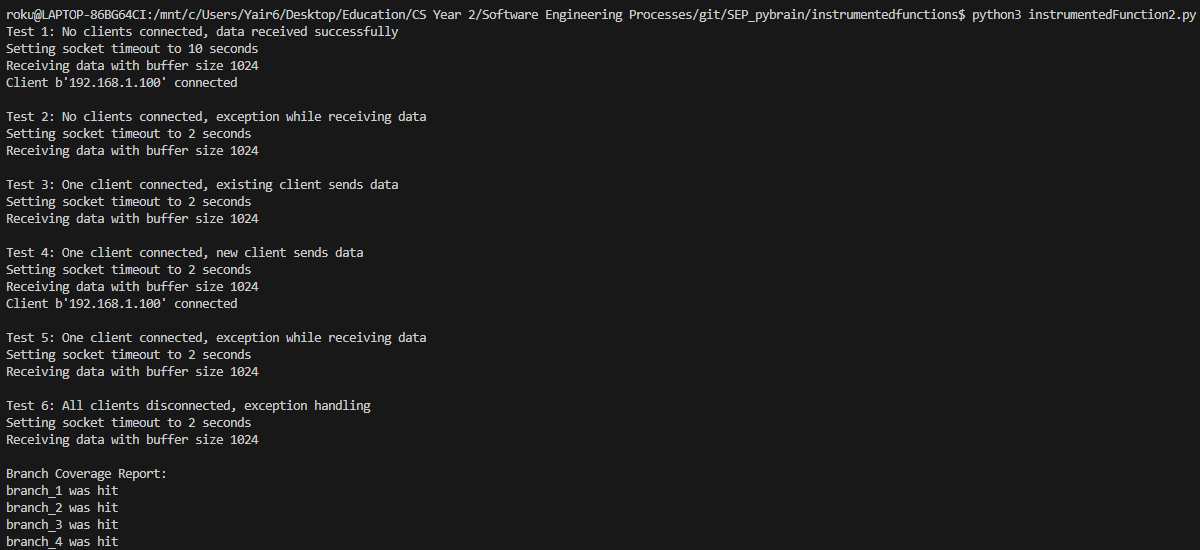
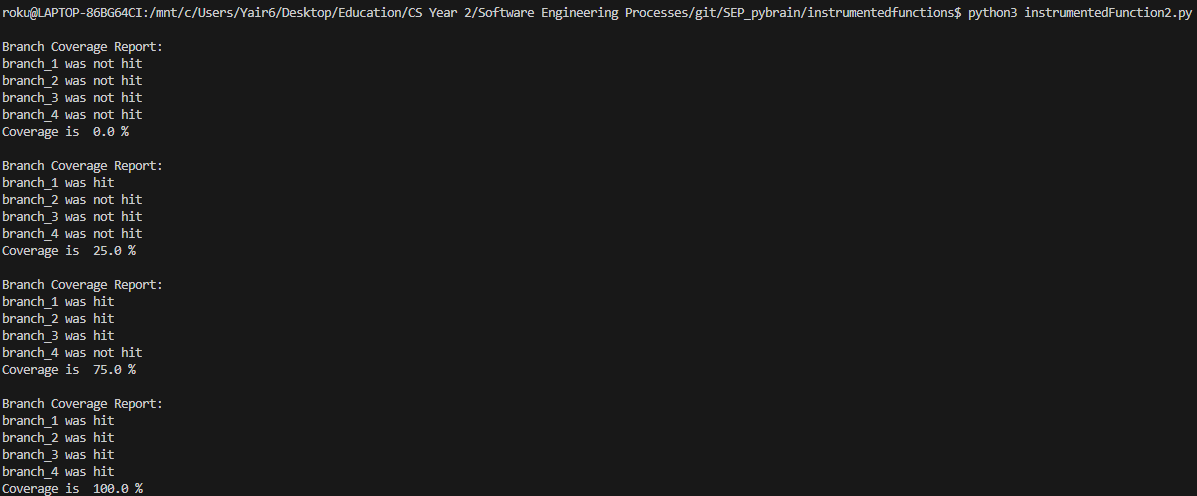
Instrumented Functions final yair

Changed region(s): [[0.0, 0.0, 1.0, 1.0]]

diff --git a/InstrumentedFunctions/instrumentedFunction1.py b/InstrumentedFunctions/instrumentedFunction1.py
@@ -2,15 +2,6 @@
 # original location: (pybrain/rl/environments/twoplayergames/capturegameplayers/clientwrapper.py)
 # instrumented function:
 
-branch_coverage = {
-    "branch_1": False,
-    "branch_2": False,
-    "branch_3": False,
-    "branch_4": False,
-    "branch_5": False,
-    "branch_6": False,
-}
-
 class CaptureGame:
     BLACK = 'BLACK'
     WHITE = 'WHITE'
@@ -47,46 +38,9 @@ branch_2_data = {
     3: CaptureGame.BLACK,
 }
 
-# scenario ensures the first position of each row is hit
-branch_3_data = {
-    0: CaptureGame.BLACK,
-    4: CaptureGame.WHITE,
-    8: CaptureGame.BLACK,
-    12: CaptureGame.WHITE,
-}
-
-# data for Branch 4 (obj.game.b.get(p, None) == CaptureGame.BLACK)
-branch_4_data = {
-    0: CaptureGame.BLACK,
-    1: CaptureGame.WHITE,
-    2: CaptureGame.BLACK,
-    3: CaptureGame.BLACK,
-}
-
-
-# data for Branch 5 (elif obj.game.b.get(p, None) == CaptureGame.WHITE)
-branch_5_data = {
-    0: CaptureGame.WHITE,
-    1: CaptureGame.BLACK,
-    2: CaptureGame.WHITE,
-    3: CaptureGame.WHITE,
-}
-
-# data for Branch 6 (else condition)
-branch_6_data = {
-    0: 'random',
-    1: 'random2',
-    2: 'random3',
-    3: 'random4',
-}
-
 mock_objects = [
     MockObject(color=CaptureGame.BLACK, board_data=branch_1_data),
     MockObject(color=CaptureGame.WHITE, board_data=branch_2_data),
-    MockObject(color=CaptureGame.BLACK, board_data=branch_3_data),
-    MockObject(color=CaptureGame.BLACK, board_data=branch_4_data),
-    MockObject(color=CaptureGame.WHITE, board_data=branch_5_data),
-    MockObject(color=CaptureGame.WHITE, board_data=branch_6_data),
 ]
 
 
@@ -115,14 +69,27 @@ def getAction(obj):
 
     return js 
 
-def print_coverage():
-    for branch, hit in branch_coverage.items():
-        print(f"{branch} was {'hit' if hit else 'not hit'}")
+def coverage_report():
+    print("\nBranch Coverage Report:")
+    for branch, covered in branch_coverage.items():
+        print(f"{branch} {'was hit' if covered else 'was not hit'}")
+    
+    print("Coverage is ", sum(branch_coverage.values()) / len(branch_coverage) * 100, "%")      
 
 
 # run tests
+
+branch_coverage = {
+    "branch_1": False,
+    "branch_2": False,
+    "branch_3": False,
+    "branch_4": False,
+    "branch_5": False,
+    "branch_6": False,
+}
+
+coverage_report()
+
 for mock_obj in mock_objects:
     result = getAction(mock_obj)
-
-print("Coverage:")
-print_coverage()
+    coverage_report()

diff --git a/InstrumentedFunctions/InstrumentedFunction2.py b/InstrumentedFunctions/InstrumentedFunction2.py
@@ -16,7 +16,6 @@ class UDPServer:
         self.cIP.append(cIP)
         self.addrList.append((cIP, self.inPort + 1))
         self.UDPOutSockList.append(MockSocket())  # mock socket for sending data
-        print(f"Client {cIP} connected")
         self.clients += 1
 
     # Listen for clients
@@ -58,23 +57,22 @@ class MockSocket:
         pass
 
     def settimeout(self, timeout):
-        print(f"Setting socket timeout to {timeout} seconds")
+        pass
 
     def recv(self, buf):
-        # simulate receiving data
-        print(f"Receiving data with buffer size {buf}")
-        return b'192.168.1.100'  # data received
+        pass
 
     def sendto(self, data, addr):
-        print(f"Sending data {data} to address {addr}")
-
+        pass
     def bind(self, addr):
-        print(f"Binding socket to address {addr}")
+        pass
 
 def coverage_report():
-        print("\nBranch Coverage Report:")
-        for branch, covered in branch_coverage.items():
-            print(f"{branch} {'was hit' if covered else 'was not hit'}")
+    print("\nBranch Coverage Report:")
+    for branch, covered in branch_coverage.items():
+        print(f"{branch} {'was hit' if covered else 'was not hit'}")
+    
+    print("Coverage is ", sum(branch_coverage.values()) / len(branch_coverage) * 100, "%")      
 
 
 branch_coverage = {
@@ -87,29 +85,17 @@ branch_coverage = {
 server = UDPServer()
 
 # simulating different scenarios
-print("Test 1: No clients connected, data received successfully")
-server.listen()
+coverage_report()
 
-print("\nTest 2: No clients connected, exception while receiving data")
-server.UDPInSock.exception_on_recv = True
 server.listen()
+coverage_report()
 
-print("\nTest 3: One client connected, existing client sends data")
 server.clients = 1
 server.listen()
+coverage_report()
 
-print("\nTest 4: One client connected, new client sends data")
 server.clients = 1
 server.cIP = [b'test']  # fake client
-server.listen()
-
-print("\nTest 5: One client connected, exception while receiving data")
-server.clients = 1
-server.listen()
-
-print("\nTest 6: All clients disconnected, exception handling")
-server.clients = 1
-server.exception_on_listen = True
 server.listen()
 
 coverage_report()
